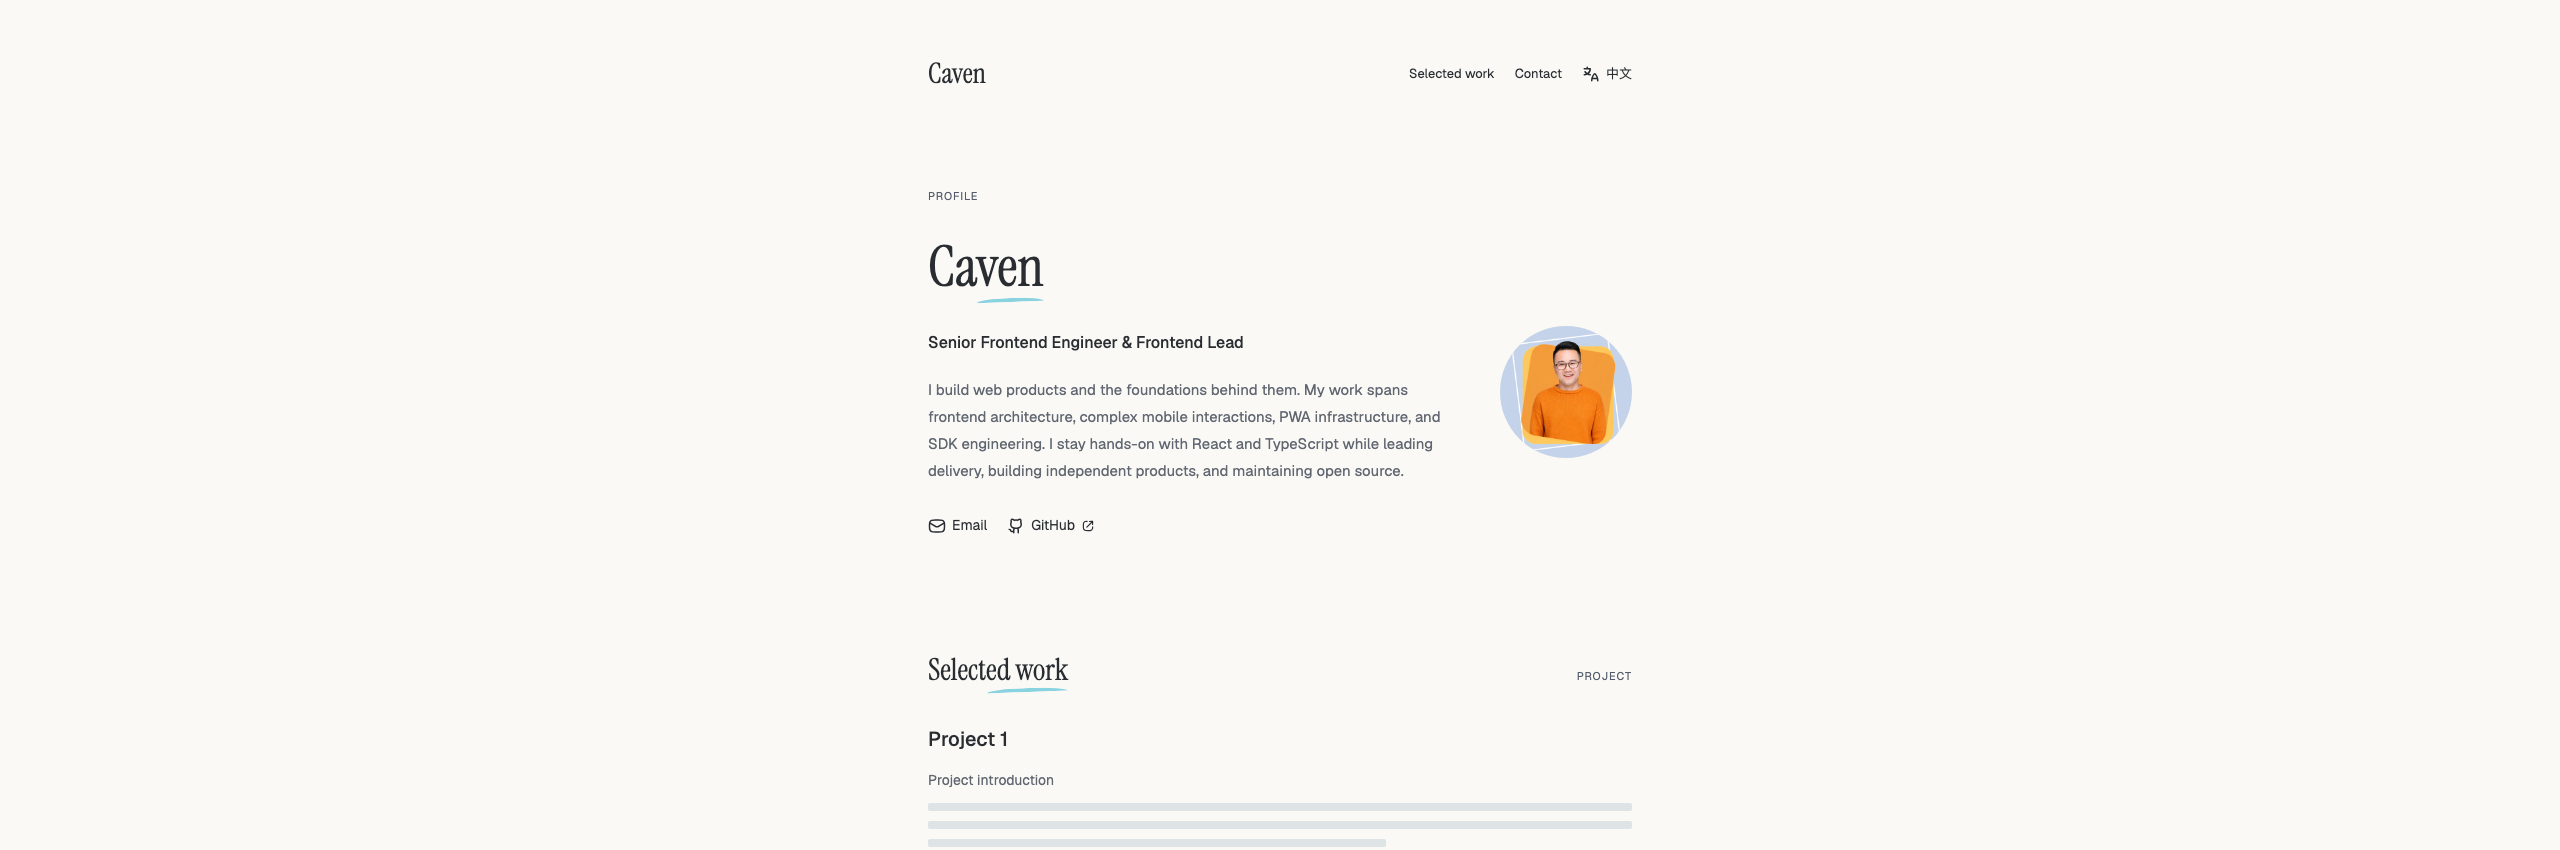
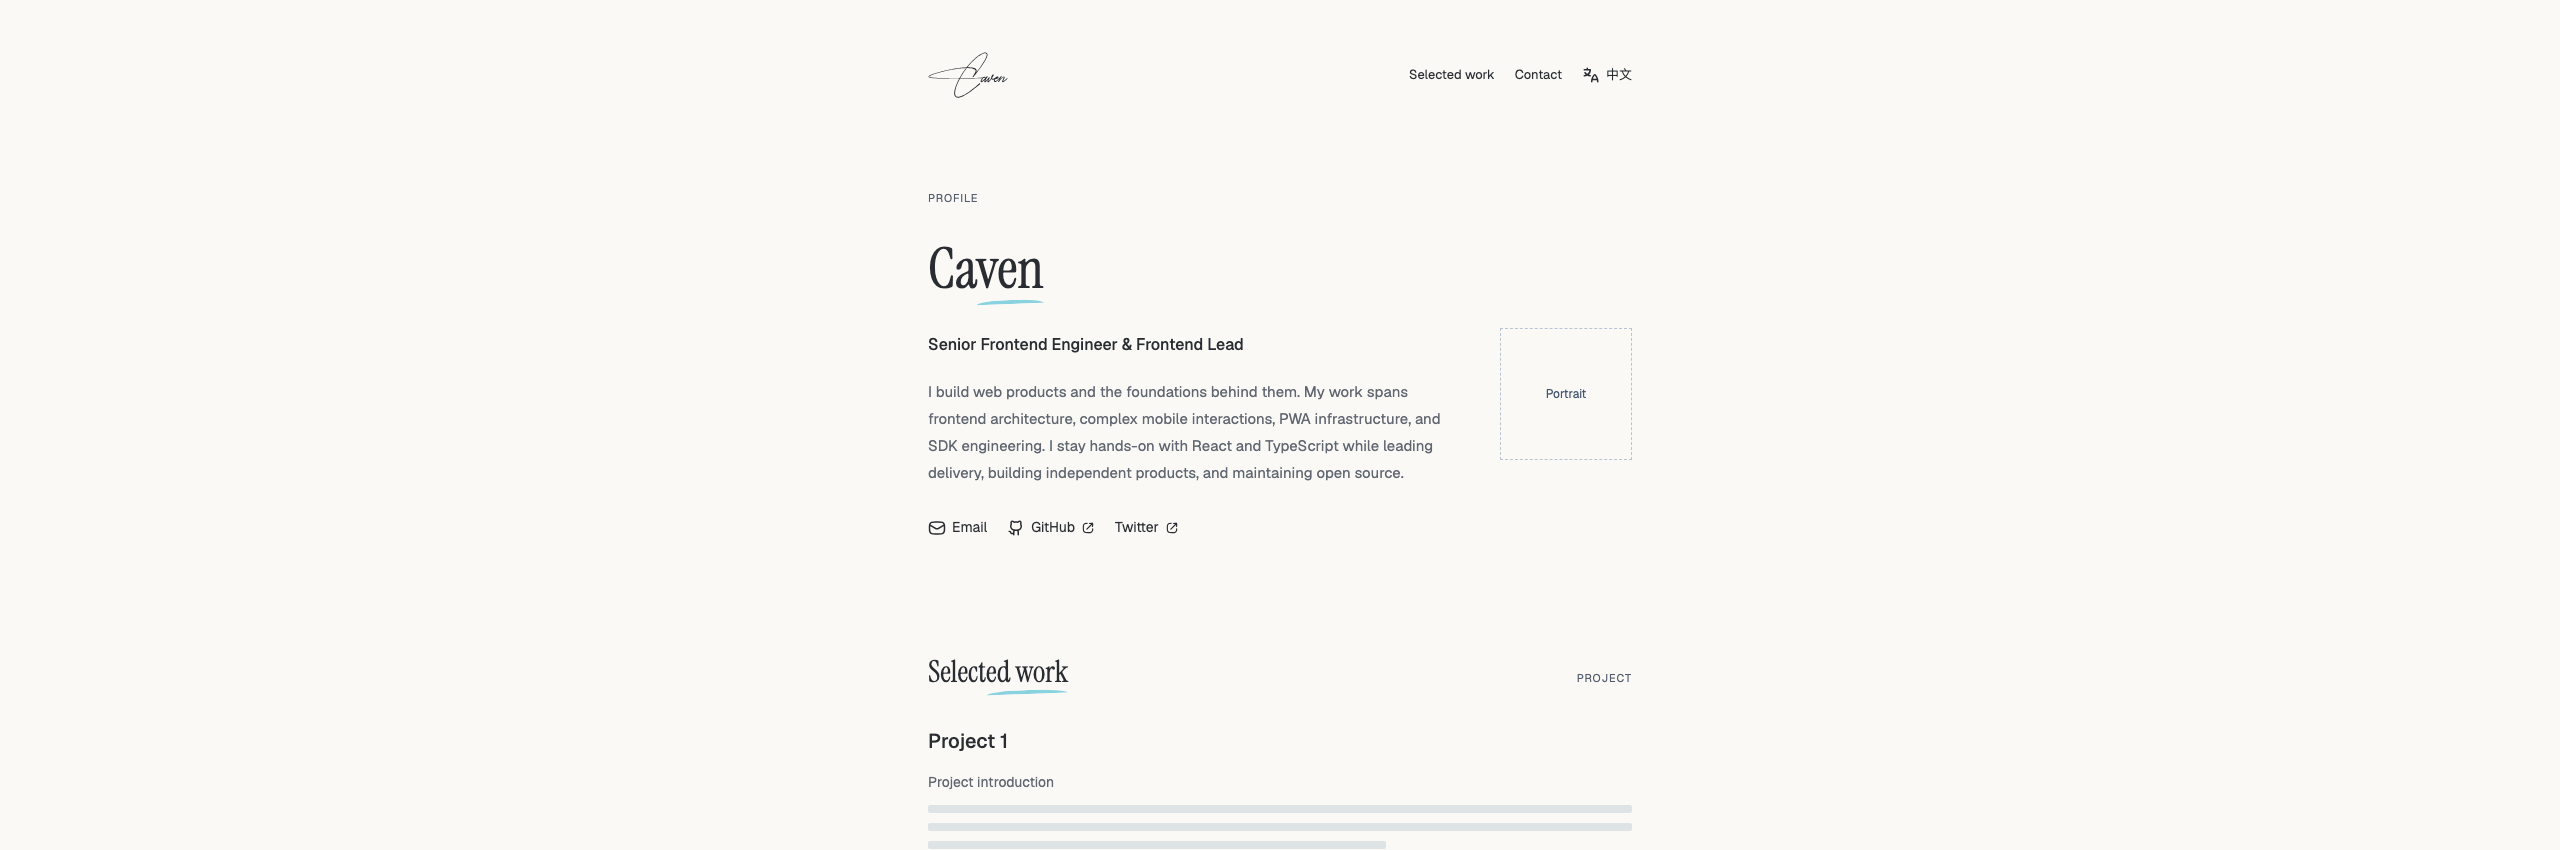
feat: refine navigation signature and social contacts

diff --git a/tests/home.test.ts b/tests/home.test.ts
@@ -38,10 +38,9 @@ test("homepage presents the seven layout regions in reading order without overfl
   await expect
     .poll(() => landscape.evaluate((image: HTMLImageElement) => image.naturalWidth))
     .toBeGreaterThan(0);
-  await expect(page.getByRole("img", { name: "Caven signature", exact: true })).toHaveAttribute(
-    "data-state",
-    "complete",
-  );
+  await expect(
+    page.getByRole("contentinfo").getByRole("img", { name: "Caven signature", exact: true }),
+  ).toHaveAttribute("data-state", "complete");
   await page.getByRole("contentinfo").screenshot({ path: testInfo.outputPath("footer.png") });
   await page.evaluate(() => window.scrollTo(0, 0));
   await page.screenshot({ path: testInfo.outputPath("homepage.png"), fullPage: true });
@@ -103,7 +102,9 @@ test("experience contributions toggle independently by pointer and keyboard", as
 
 test("signature writes once when scrolled into view", async ({ page }, testInfo) => {
   await page.goto("/");
-  const signature = page.getByRole("img", { name: "Caven signature", exact: true });
+  const signature = page
+    .getByRole("contentinfo")
+    .getByRole("img", { name: "Caven signature", exact: true });
   await expect(signature).toHaveAttribute("data-state", "pending");
   await signature.scrollIntoViewIfNeeded();
   await expect(signature).toHaveAttribute("data-state", "running");
@@ -124,7 +125,9 @@ test("signature writes once when scrolled into view", async ({ page }, testInfo)
 test("signature stays complete with reduced motion", async ({ page }) => {
   await page.emulateMedia({ reducedMotion: "reduce" });
   await page.goto("/");
-  const signature = page.getByRole("img", { name: "Caven signature", exact: true });
+  const signature = page
+    .getByRole("contentinfo")
+    .getByRole("img", { name: "Caven signature", exact: true });
   await signature.scrollIntoViewIfNeeded();
   await expect(signature).toHaveAttribute("data-state", "complete");
   expect(
@@ -136,7 +139,9 @@ test("signature crossings do not reveal later strokes", async ({ browser }) => {
   const context = await browser.newContext({ javaScriptEnabled: false });
   const page = await context.newPage();
   await page.goto("http://127.0.0.1:4321/");
-  const signature = page.getByRole("img", { name: "Caven signature", exact: true });
+  const signature = page
+    .getByRole("contentinfo")
+    .getByRole("img", { name: "Caven signature", exact: true });
   // Keep the contour comparison independent of page-copy/font subpixel placement.
   await signature.evaluate((element) => {
     element.setAttribute("data-state", "running");
@@ -146,6 +151,8 @@ test("signature crossings do not reveal later strokes", async ({ browser }) => {
       left: "0",
       margin: "0",
       background: "#faf9f6",
+      // Cover fractional crop edges as well as the SVG box.
+      boxShadow: "0 0 0 2px #faf9f6",
       zIndex: "1",
     });
   });

diff --git a/tests/identity.test.ts b/tests/identity.test.ts
@@ -107,7 +107,7 @@ for (const locale of ["en", "zh"] as const) {
     await expect(
       page.getByRole("link", { name: locale === "en" ? "Email" : "邮件", exact: true }).first(),
     ).toBeVisible();
-    const signature = page.getByRole("img", {
+    const signature = page.getByRole("contentinfo").getByRole("img", {
       name: locale === "en" ? "Caven signature" : "Caven 签名",
       exact: true,
     });
@@ -126,3 +126,26 @@ for (const locale of ["en", "zh"] as const) {
     await context.close();
   });
 }
+
+test("navigation and footer signatures animate independently, with Twitter beside GitHub", async ({
+  page,
+}) => {
+  await page.goto("/");
+  const header = page
+    .getByRole("navigation")
+    .getByRole("img", { name: "Caven signature", exact: true });
+  const footer = page
+    .getByRole("contentinfo")
+    .getByRole("img", { name: "Caven signature", exact: true });
+  await expect(header).toHaveAttribute("data-state", "running");
+  await expect(footer).toHaveAttribute("data-state", "pending");
+  await expect(header).toHaveAttribute("data-state", "complete");
+  await footer.scrollIntoViewIfNeeded();
+  await expect(footer).toHaveAttribute("data-state", "running");
+  await expect(header).toHaveAttribute("data-state", "complete");
+  await expect(footer).toHaveAttribute("data-state", "complete");
+  const twitter = page.getByRole("link", { name: "Twitter", exact: true });
+  await expect(twitter).toHaveCount(2);
+  for (const link of await twitter.all())
+    await expect(link).toHaveAttribute("href", "https://x.com/cavenasdev");
+});

diff --git a/src/data/home.ts b/src/data/home.ts
@@ -3,6 +3,7 @@
 export const contact = {
   email: "mailto:cavenasdev@gmail.com",
   github: "https://github.com/keyding",
+  twitter: "https://x.com/cavenasdev",
 };
 
 export const projectIds = ["pwarelay", "lemon-squeezy-sdk", "online-arbitrage-tool"];
@@ -24,7 +25,7 @@ export const home = {
     switchPath: "/zh/",
     switchLang: "zh-CN",
     profile: "Profile",
-    portrait: "Portrait of Caven",
+    portrait: "Portrait",
     email: "Email",
     project: "Project",
     projectIntro: "Project introduction",
@@ -70,7 +71,7 @@ export const home = {
     switchPath: "/",
     switchLang: "en",
     profile: "关于我",
-    portrait: "丁强的照片",
+    portrait: "头像",
     email: "邮件",
     project: "项目",
     projectIntro: "项目简介",

diff --git a/src/styles/global.css b/src/styles/global.css
@@ -85,8 +85,7 @@ h3 {
   display: grid;
   place-items: center;
   aspect-ratio: 1;
-  border-radius: 50%;
-  background: #c4d3e9;
+  border: 1px dashed #b9c4d2;
   color: #46566e;
   font-size: 12px;
 }
@@ -490,8 +489,14 @@ a:hover {
   text-underline-offset: 4px;
 }
 .brand {
-  font-family: "Instrument Serif", "Songti SC", serif;
-  font-size: 28px;
+  display: inline-flex;
+  align-items: center;
+  flex-shrink: 0;
+  min-height: 44px;
+}
+.brand .signature {
+  width: 80px;
+  margin: 0;
 }
 .nav-links,
 .contact-links {
@@ -532,9 +537,6 @@ a:hover {
 .intro-contacts {
   margin-top: 20px;
   font-size: 14px;
-}
-.portrait-slot {
-  object-fit: cover;
 }
 :lang(zh-CN) h1,
 :lang(zh-CN) h2 {

diff --git a/docs/identity-review.md b/docs/identity-review.md
@@ -13,7 +13,8 @@ frontend architecture, mobile interaction, PWA, SDK, React/TypeScript, team deli
 independent product and open-source experience without adding dates, metrics, or
 employer/project claims. The English and Chinese versions have equivalent meaning.
 The source document was only read, and is not included in this repository.
-The portrait is its existing square image, resized to a 400px WebP.
+The low-resolution extracted portrait has been removed at Caven's request. A square,
+unfilled placeholder reserves its space until a high-resolution PNG is supplied.
 
 Project, experience, toolkit and additional-work details remain localized
 placeholders for #5–7. Their real content and a public resume download are outside
@@ -24,7 +25,7 @@ with JavaScript, and falls back to native locale navigation without JavaScript.
 
 The production build was rendered in Chromium at desktop and phone sizes.
 The following captures were visually inspected for mixed-script typography,
-wrapping, portrait quality, whitespace, and footer composition:
+wrapping, portrait placeholder, whitespace, and footer composition:
 
 - [English mobile, 390px](identity-evidence/en-mobile.png)
 - [Chinese mobile, 390px](identity-evidence/zh-mobile.png)
@@ -61,7 +62,7 @@ full browser suite on PRs and main. It uploads browser evidence and failure trac
 No deployment or domain configuration is included.
 
 Local result: formatting, lint and Astro/TypeScript checks passed (zero diagnostics);
-the full built-site suite passed **24/24** across desktop and mobile projects.
+the full built-site suite passed **26/26** across desktop and mobile projects.
 The retained signature snapshot is now captured at a fixed viewport origin, so
 font-driven subpixel page positioning cannot alter its crop. Both updated mobile
 baseline images were visually inspected; original contours are unchanged.
@@ -78,3 +79,18 @@ rule was restored, then the full suite and rendered Experience layout were check
 The independent review found the same layout regression, now fixed, and the
 outstanding final-artwork approval described above. Identity, routes, contact,
 typography, fallback behavior and CI match the slice; no scope creep was identified.
+
+## Requested refinements
+
+Caven requested the navigation wordmark be replaced by the same animated signature,
+Twitter be added after GitHub (`cavenasdev`), and the low-resolution portrait be
+replaced by a placeholder without a circular background. Both signatures use
+instance-specific SVG references and independent viewport observers. Reduced
+motion and no-JavaScript fallbacks remain. Twitter appears in both contact rows.
+The portrait placeholder has a transparent background and a square dashed outline;
+the removed low-resolution file is no longer shipped.
+
+Both independent review axes found no new issues in these refinements. The
+navigation/independent-animation regression first failed on the old text wordmark
+and passed after the change. The final full suite passed 26/26 and static checks
+passed with zero diagnostics. Signature contour baselines remain unchanged.

diff --git a/README.md b/README.md
@@ -106,7 +106,9 @@ preserves valid page fragments when JavaScript is available.
 
 Geist (400/500) and Instrument Serif (400) are bundled from pinned Fontsource
 packages, with local Chinese system fallbacks. They make no external font requests.
-Both packages include their SIL Open Font License. The portrait is a 400px WebP
-extracted from the supplied resume's image, not a page capture. The source resume
+Both packages include their SIL Open Font License. The portrait is a transparent square placeholder pending a user-provided high-resolution PNG. The source resume
 and phone number are not distributed. The outlined signature and Tianchi candidate
 are reused from #3. `noindex` remains until the discovery/release slice (#9).
+
+Navigation and footer signatures use separate SVG IDs and animate independently.
+Twitter links use the user-provided `cavenasdev` account at `https://x.com/cavenasdev`.
